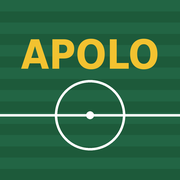
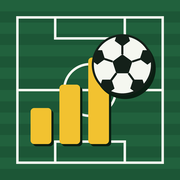
Nuevo icono: campo, balón y barras de estadísticas
Claude-Session: https://claude.ai/code/session_01QXFbQSLMgMgRi85qf448zk

diff --git a/index.html b/index.html
@@ -12,8 +12,8 @@
 <meta name="robots" content="noindex">
 <title>Partidos Juvenil Apolo</title>
 <link rel="manifest" href="manifest.webmanifest">
-<link rel="apple-touch-icon" href="icons/apple-touch-icon.png">
-<link rel="icon" href="icons/icon-192.png">
+<link rel="apple-touch-icon" href="icons/apple-touch-icon.png?v=2">
+<link rel="icon" href="icons/icon-192.png?v=2">
 <link rel="preconnect" href="https://fonts.googleapis.com">
 <link rel="preconnect" href="https://fonts.gstatic.com" crossorigin>
 <link href="https://fonts.googleapis.com/css2?family=Big+Shoulders+Display:wght@600;700;800;900&family=Instrument+Sans:wght@400;500;600;700&display=swap" rel="stylesheet">

diff --git a/sw.js b/sw.js
@@ -1,5 +1,5 @@
 // Funciona sin cobertura: la app se guarda en el móvil; la página se intenta actualizar primero por la red.
-const VERSION = 'apolo-v1';
+const VERSION = 'apolo-v2';
 const SHELL = ['./', './index.html', './manifest.webmanifest', './icons/icon-192.png', './icons/icon-512.png', './icons/apple-touch-icon.png'];
 self.addEventListener('install', e => { e.waitUntil(caches.open(VERSION).then(c => c.addAll(SHELL)).then(() => self.skipWaiting())); });
 self.addEventListener('activate', e => { e.waitUntil(caches.keys().then(ks => Promise.all(ks.filter(k => k !== VERSION).map(k => caches.delete(k)))).then(() => self.clients.claim())); });

diff --git a/src/build.py b/src/build.py
@@ -13,8 +13,8 @@ html=f'''<!DOCTYPE html>
 <meta name="robots" content="noindex">
 <title>Partidos Juvenil Apolo</title>
 <link rel="manifest" href="manifest.webmanifest">
-<link rel="apple-touch-icon" href="icons/apple-touch-icon.png">
-<link rel="icon" href="icons/icon-192.png">
+<link rel="apple-touch-icon" href="icons/apple-touch-icon.png?v=2">
+<link rel="icon" href="icons/icon-192.png?v=2">
 <link rel="preconnect" href="https://fonts.googleapis.com">
 <link rel="preconnect" href="https://fonts.gstatic.com" crossorigin>
 <link href="https://fonts.googleapis.com/css2?family=Big+Shoulders+Display:wght@600;700;800;900&family=Instrument+Sans:wght@400;500;600;700&display=swap" rel="stylesheet">
